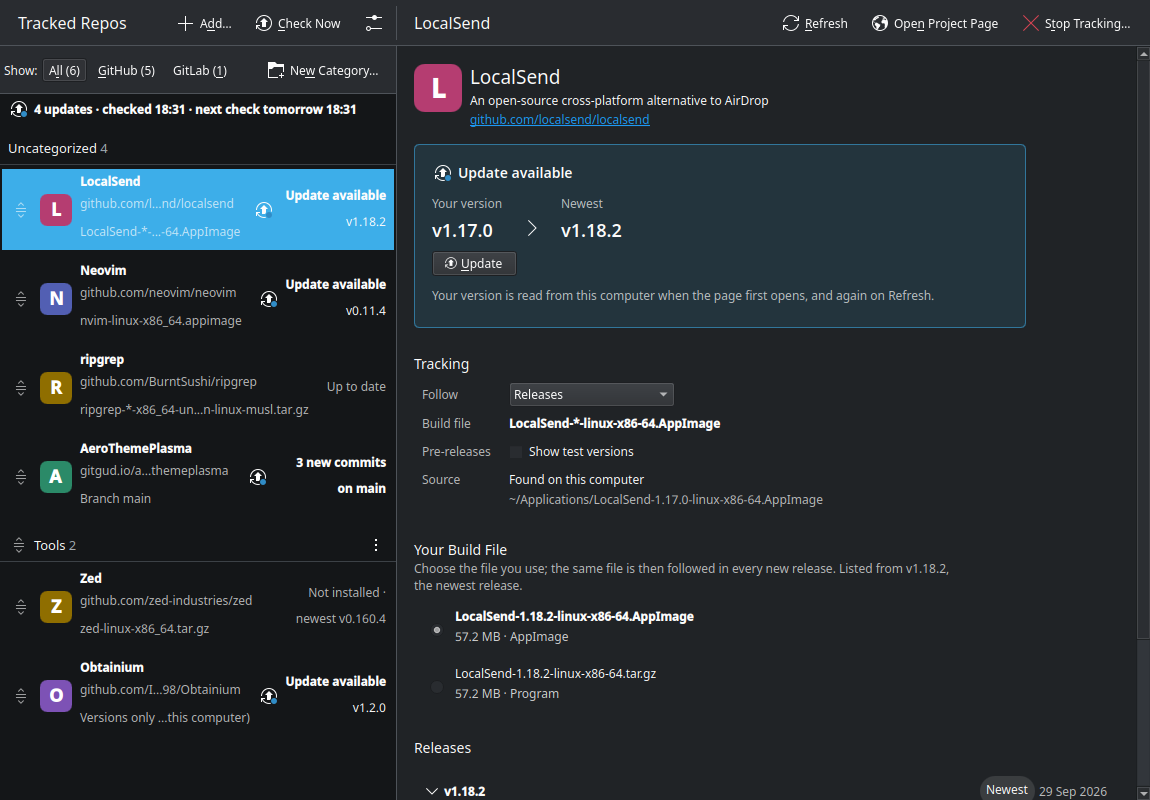
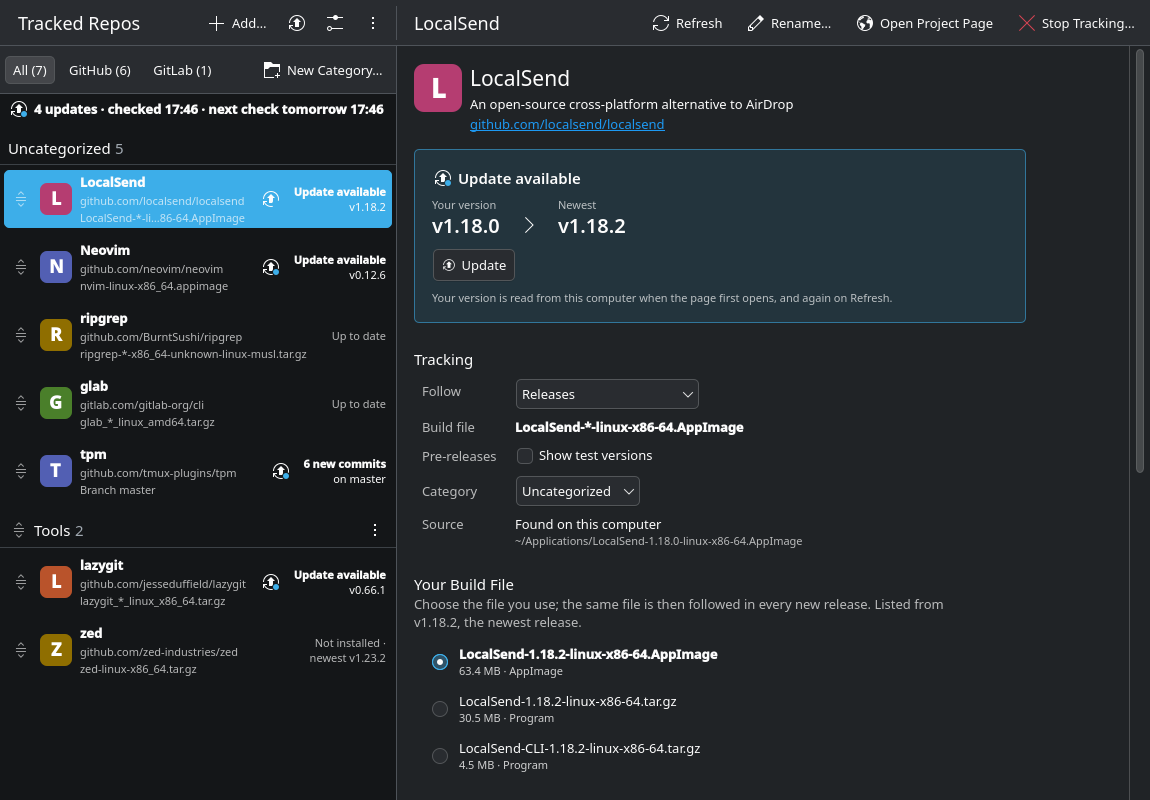
README screenshot from real projects; Add and Check Now stay in the header
- docs/screenshot.png is retaken by devtools/readme_shot.sh: in a container, real projects really installed (some
  at an older release), a clone a few commits behind, a real check. The old one, from made-up release lists, showed
  Obtainium with an update, which the app no longer says. check_look.py's readme mode is gone.
- With scanning on and a repo's page open, the header had room for two of its four buttons, and Check Now was the
  one moved into the ⋮ menu. Add… and Check Now now stay (Check Now as its icon when narrow); Scan… goes first.
- The filter row drops its "Show:" label, so New Category… isn't cut off.

Claude-Session: https://claude.ai/code/session_01Xqq1a9QYZUUVDNPL2mHYXV

diff --git a/couriercollie/qml/RepoListPage.qml b/couriercollie/qml/RepoListPage.qml
@@ -59,6 +59,7 @@ Kirigami.ScrollablePage {
         icon.name: "list-add"
         text: "Add…"
         shortcut: StandardKey.New
+        displayHint: Kirigami.DisplayHint.KeepVisible  // (as Check Now)
         onTriggered: applicationWindow().showAddDialog()
     }
 
@@ -77,6 +78,8 @@ Kirigami.ScrollablePage {
         icon.name: "system-software-update"
         text: backend.checking ? "Checking\u2026" : "Check Now"
         enabled: !backend.checking
+        // With a repo's page open there's room for few buttons: Add… and this one stay (Scan… goes to the ⋮ menu).
+        displayHint: Kirigami.DisplayHint.KeepVisible
         onTriggered: backend.checkNow()
     }
 
@@ -114,10 +117,6 @@ Kirigami.ScrollablePage {
 
             contentItem: RowLayout {
                 spacing: Kirigami.Units.smallSpacing
-
-                QQC2.Label {
-                    text: "Show:"
-                }
 
                 Repeater {
                     model: [

diff --git a/devtools/readme_shot_inner.py b/devtools/readme_shot_inner.py
@@ -1,0 +1,95 @@
+"""The README's screenshot (docs/screenshot.png), in a container (devtools/readme_shot.sh), in Breeze Dark: real
+projects, really installed. Some at an older release (installed as it was, then the newest is out), so the list has
+updates to show; a clone a few commits behind; one not installed. Then a real check, and LocalSend's page.
+"""
+
+import os
+import subprocess
+import sys
+import time
+from pathlib import Path
+
+sys.path.insert(0, "/app/devtools")
+import harness  # noqa: E402
+import relay_client  # noqa: E402,F401  (GitHub's API through the relay, with your login)
+
+HOME = Path(os.environ["HOME"])
+# A clone of tmux's plugin manager from a while ago: a few commits behind.
+subprocess.run(["git", "clone", "-q", "https://github.com/tmux-plugins/tpm.git", str(HOME / "src/tpm")], check=True)
+subprocess.run(["git", "-C", str(HOME / "src/tpm"), "reset", "-q", "--hard", "HEAD~3"], check=True)
+
+h = harness.start(settings={"scanning": True, "autoCheck": True})
+b, app, win = h.backend, h.app, h.win
+from couriercollie import assets, updater  # noqa: E402
+
+updater.ROOT = []
+win.resize(1150, 800)
+
+
+def pump(cond=lambda: False, seconds=1.0):
+    end = time.monotonic() + seconds
+    while time.monotonic() < end:
+        app.processEvents()
+        if cond():
+            return True
+        time.sleep(0.03)
+    return cond()
+
+
+def add(url, file_ending=""):
+    before = {r.id for r in b._config.repos}
+    b.addRepo("", url)
+    pump(lambda: not b.adding and {r.id for r in b._config.repos} != before, 60)
+    rid = next(r.id for r in b._config.repos if r.id not in before)
+    if file_ending and not b._config.find(rid).asset_pattern:
+        name = next(f["name"] for f in b.details(rid)["fileChoices"] if f["name"].endswith(file_ending))
+        b.pickAsset(rid, b._details[rid].releases[0].tag, name)
+    print("added", rid, b._config.find(rid).asset_pattern, flush=True)
+    return rid
+
+
+def install(rid, older=False):
+    """Install the newest, or (older) the release before it, as it was installed back then."""
+    d = b._details[rid]
+    real = d.releases
+    stable = [r for r in real if not r.prerelease]
+    if older:  # the latest before the newest that has the file (LocalSend's v1.18.1 has no AppImage)
+        pattern = b._config.find(rid).asset_pattern
+        d.releases = [next(r for r in stable[1:] if assets.pick(pattern, [a.name for a in r.assets]))]
+    b.updateRepo(rid)
+    pump(lambda: not b.details(rid)["updating"], 600)
+    d.releases = real
+    print(" ", rid, "->", b._config.find(rid).installed, b.details(rid)["updateNote"][:80], flush=True)
+
+
+localsend = add("https://github.com/localsend/localsend", "-linux-x86-64.AppImage")
+b.renameRepo(localsend, "LocalSend")
+install(localsend, older=True)
+neovim = add("https://github.com/neovim/neovim", "x86_64.appimage")
+b.renameRepo(neovim, "Neovim")
+install(neovim, older=True)
+ripgrep = add("https://github.com/BurntSushi/ripgrep", "x86_64-unknown-linux-musl.tar.gz")
+install(ripgrep)
+glab = add("https://gitlab.com/gitlab-org/cli", "_linux_amd64.tar.gz")
+b.renameRepo(glab, "glab")  # the project is called "cli"
+install(glab)
+b.startScan()  # finds the clone
+pump(lambda: b.scanState == "done", 120)
+b.trackFound([i["key"] for i in b.scanItems if i["status"] == "new"])
+b.addCategory("Tools")
+lazygit = add("https://github.com/jesseduffield/lazygit", "_linux_x86_64.tar.gz")
+install(lazygit, older=True)
+zed = add("https://github.com/zed-industries/zed", "zed-linux-x86_64.tar.gz")  # not installed
+for rid in (lazygit, zed):
+    b.moveRepo(rid, "Tools", "")
+pump(lambda: not b.checking, 300)
+b.checkNow()
+pump(lambda: b.checking, 5)
+pump(lambda: not b.checking, 300)
+for r in b._config.repos:
+    print(f"  {r.name}: {b.repo(r.id)['checkText']}", flush=True)
+h.win.openRepo(localsend)
+pump(lambda: b.details(localsend)["state"] == "ready", 60)
+pump(seconds=2)
+win.grabWindow().save("/work/out/screenshot.png")
+print("saved", flush=True)

diff --git a/devtools/check_look.py b/devtools/check_look.py
@@ -4,7 +4,8 @@ bottom, and signing in. No network: the projects and the sites' answers are made
 
     python3 -I devtools/check_look.py          # in your desktop's theme
     python3 -I devtools/check_look.py dark     # in Breeze Dark
-    python3 -I devtools/check_look.py readme   # the README's screenshot (docs/screenshot.png): real projects only
+
+The README's screenshot is taken from real projects instead: devtools/readme_shot.sh.
 """
 
 import os
@@ -14,12 +15,8 @@ import tempfile
 from datetime import datetime, timezone
 from pathlib import Path
 
-README = "readme" in sys.argv[1:]
-DARK = "dark" in sys.argv[1:] or README
+DARK = "dark" in sys.argv[1:]
 work = Path(tempfile.mkdtemp())
-if README:
-    # A home folder of its own, so paths on the screenshot read "~/…", not a temporary folder's.
-    os.environ["HOME"] = str(work / "home")
 if DARK:
     # KDE's style reads its colours from kdeglobals: a copy with Breeze Dark's, in a folder of its own.
     config = work / "config"
@@ -81,8 +78,6 @@ REPOS = [
     ("github.com/example/notes", "Notes", 'follow = "branch"\nbranch = "main"\ninstalled = "-"'),
 ]
 
-if README:  # no made-up projects, nothing broken, and nothing pretending to be installed
-    REPOS = [r for r in REPOS if "/example/" not in r[0] and r[0] != "github.com/KDE/dolphin"]
 settings = work / "repos.toml"
 lines = ['categories = ["Tools"]\n']
 for repo_id, name, extra in REPOS:
@@ -201,19 +196,6 @@ def signing_in():
     github_login.wait = lambda code, cancelled: (cancelled.wait(), (_ for _ in ()).throw(github_login.LoginError("x")))
     b.startSignIn()
 
-
-def readme_shot():
-    h.win.grabWindow().save(str(Path(__file__).resolve().parent.parent / "docs" / "screenshot.png"))
-
-
-if README:
-    sys.exit(h.run([
-        (800, lambda: h.call("firstLaunch", "done")),
-        (300, lambda: h.call("scanDialog", "close")),
-        (0, checked),
-        *page("github.com/localsend/localsend", "readme"),
-        (0, readme_shot),
-    ]))
 
 h.run([
     (800, shot("0-welcome")),
